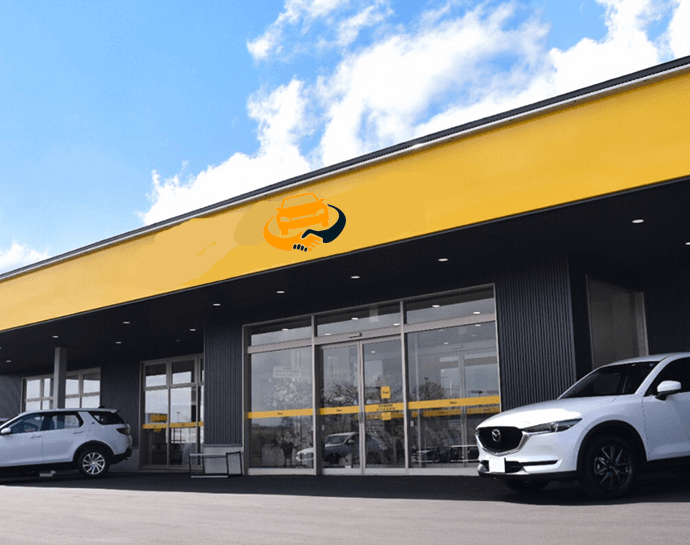
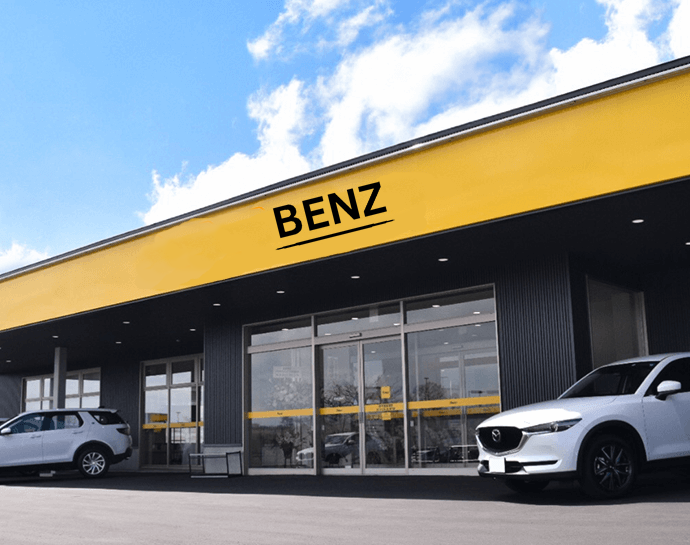
initial setup

Changed region(s): [[0.213, 0.3119, 0.5783, 0.4991]]

diff --git a/resources/views/layouts/myapp.blade.php b/resources/views/layouts/myapp.blade.php
@@ -6,7 +6,7 @@
     <meta name="viewport" content="width=device-width, initial-scale=1.0">
     <meta http-equiv="X-UA-Compatible" content="ie=edge">
     <meta name="csrf-token" content="{{ csrf_token() }}">
-    <title>{{ config('app.name', 'RealRentCar') }}</title>
+    <title>{{ config('app.name', 'Benz Luxury Rental') }}</title>
     {{-- jquery --}}
     <script src="https://code.jquery.com/jquery-3.6.0.min.js"></script>
     {{-- sweet alert --}}
@@ -30,7 +30,7 @@
                 <div class="flex flex-wrap justify-between items-center mx-auto max-w-screen-xl drop-shadow-2xl">
                     {{-- LOGO --}}
                     <a href="{{ route('home') }}" class="flex items-center">
-                        <img loading="lazy" src="/images/logos/LOGOtext.png" class="mr-3 h-12" alt="Flowbite Logo" />
+                        <img loading="lazy" src="/logo_black.png" class="mr-3 h-12" alt="Flowbite Logo" />
                     </a>
 
                     {{-- login & Register buttons --}}
@@ -123,7 +123,7 @@
                 <div class="flex flex-wrap justify-between items-center mx-auto max-w-screen-xl">
                     {{-- LOGO --}}
                     <a href="{{ route('home') }}" class="flex items-center">
-                        <img loading="lazy" src="/images/logos/LOGOtext.png" class="mr-3 h-12" alt="Flowbite Logo" />
+                        <img loading="lazy" src="/logo_black.png" class="mr-3 h-12" alt="Flowbite Logo" />
                     </a>
 
                     {{-- Dropdown button --}}
@@ -326,7 +326,7 @@
                 <div class="md:flex md:justify-between">
                     <div class="mb-12 md:mb-0 flex justify-center ">
                         <a href="" class="flex items-center">
-                            <img loading="lazy" src="/images/logos/LogoTextDark.png" class="mr-3 h-24"
+                            <img loading="lazy" src="/logo.png" class="mr-3 h-24"
                                 alt="Logo" />
                         </a>
                     </div>
@@ -336,25 +336,24 @@
                             <h2 class="mb-6 text-sm font-semibold  uppercase text-white">Resources</h2>
                             <ul class=" text-gray-400">
                                 <li class="mb-4">
-                                    <a href="https://laravel.com/" target='_blank'="hover:underline">Laravel 10.x</a>
+                                    <a href="/cars" target='_blank'="hover:underline">Cars</a>
                                 </li>
                                 <li>
-                                    <a href="https://tailwindcss.com/" target='_blank'
-                                        class="hover:underline">Tailwind
-                                        CSS</a>
+                                    <a href="/location" target='_blank'
+                                        class="hover:underline">Location</a>
                                 </li>
                             </ul>
                         </div>
                         <div>
-                            <h2 class="mb-6 text-sm font-semibold  uppercase text-white">Follow us</h2>
+                            <h2 class="mb-6 text-sm font-semibold  uppercase text-white">Contact us</h2>
                             <ul class="text-gray-400">
                                 <li class="mb-4">
-                                    <a href="https://github.com/Mohamed-Galdi/RealRentCar" class="hover:underline "
-                                        target='_blank'>Github</a>
+                                    <a href="https://wa.me/971505068032" class="hover:underline "
+                                        target='_blank'>+971 0000 0000</a>
                                 </li>
                                 <li>
-                                    <a href="https://www.linkedin.com/in/mohamed-galdi/" class="hover:underline"
-                                        target='_blank'>Linkedin</a>
+                                    <a href="/contact_us" class="hover:underline"
+                                        target='_blank'>Contact</a>
                                 </li>
                             </ul>
                         </div>
@@ -380,38 +379,19 @@
                 <div class="sm:flex sm:items-center sm:justify-between md:ms-0 pb-4  ms-32">
                     <span class="text-sm sm:text-center text-gray-400 md:ms-0 -ms-8">© 2022 <a
                             href="https://www.linkedin.com/in/mohamed-galdi/" target='_blank'
-                            class="hover:underline">Galdi.dev™</a>. All Rights Reserved.
+                            class="hover:underline">Benz Luxury Cars™</a>. All Rights Reserved.
                     </span>
                     <div class="flex mt-4 space-x-6 sm:justify-center sm:mt-0">
-                        <a href="https://github.com/Mohamed-Galdi/RealRentCar" target='_blank'
-                            class="text-gray-500 hover:text-white">
-                            <svg class="w-8 h-8" fill="currentColor" viewBox="0 0 24 24" aria-hidden="true">
-                                <path fill-rule="evenodd"
-                                    d="M12 2C6.477 2 2 6.484 2 12.017c0 4.425 2.865 8.18 6.839 9.504.5.092.682-.217.682-.483 0-.237-.008-.868-.013-1.703-2.782.605-3.369-1.343-3.369-1.343-.454-1.158-1.11-1.466-1.11-1.466-.908-.62.069-.608.069-.608 1.003.07 1.531 1.032 1.531 1.032.892 1.53 2.341 1.088 2.91.832.092-.647.35-1.088.636-1.338-2.22-.253-4.555-1.113-4.555-4.951 0-1.093.39-1.988 1.029-2.688-.103-.253-.446-1.272.098-2.65 0 0 .84-.27 2.75 1.026A9.564 9.564 0 0112 6.844c.85.004 1.705.115 2.504.337 1.909-1.296 2.747-1.027 2.747-1.027.546 1.379.202 2.398.1 2.651.64.7 1.028 1.595 1.028 2.688 0 3.848-2.339 4.695-4.566 4.943.359.309.678.92.678 1.855 0 1.338-.012 2.419-.012 2.747 0 .268.18.58.688.482A10.019 10.019 0 0022 12.017C22 6.484 17.522 2 12 2z"
-                                    clip-rule="evenodd" />
-                            </svg>
-                        </a>
-                        <a href="https://twitter.com/GaldiMohamed" target='_blank'
+                   
+                        <a href="#" target='_blank'
                             class="text-gray-500 hover:text-white">
                             <svg class="w-8 h-8" fill="currentColor" viewBox="0 0 24 24" aria-hidden="true">
                                 <path
                                     d="M8.29 20.251c7.547 0 11.675-6.253 11.675-11.675 0-.178 0-.355-.012-.53A8.348 8.348 0 0022 5.92a8.19 8.19 0 01-2.357.646 4.118 4.118 0 001.804-2.27 8.224 8.224 0 01-2.605.996 4.107 4.107 0 00-6.993 3.743 11.65 11.65 0 01-8.457-4.287 4.106 4.106 0 001.27 5.477A4.072 4.072 0 012.8 9.713v.052a4.105 4.105 0 003.292 4.022 4.095 4.095 0 01-1.853.07 4.108 4.108 0 003.834 2.85A8.233 8.233 0 012 18.407a11.616 11.616 0 006.29 1.84" />
                             </svg>
                         </a>
-                        <a href="https://www.linkedin.com/in/mohamed-galdi/" target='_blank'
-                            class="text-gray-500  hover:text-white">
-                            <svg xmlns="http://www.w3.org/2000/svg" height="2em" viewBox="0 0 448 512">
-                                <!--! Font Awesome Free 6.4.0 by @fontawesome - https://fontawesome.com License - https://fontawesome.com/license (Commercial License) Copyright 2023 Fonticons, Inc. -->
-                                <style>
-                                    svg {
-                                        fill: #ea9800
-                                    }
-                                </style>
-                                <path
-                                    d="M416 32H31.9C14.3 32 0 46.5 0 64.3v383.4C0 465.5 14.3 480 31.9 480H416c17.6 0 32-14.5 32-32.3V64.3c0-17.8-14.4-32.3-32-32.3zM135.4 416H69V202.2h66.5V416zm-33.2-243c-21.3 0-38.5-17.3-38.5-38.5S80.9 96 102.2 96c21.2 0 38.5 17.3 38.5 38.5 0 21.3-17.2 38.5-38.5 38.5zm282.1 243h-66.4V312c0-24.8-.5-56.7-34.5-56.7-34.6 0-39.9 27-39.9 54.9V416h-66.4V202.2h63.7v29.2h.9c8.9-16.8 30.6-34.5 62.9-34.5 67.2 0 79.7 44.3 79.7 101.9V416z" />
-                            </svg>
-                        </a>
-                        <a href="https://www.instagram.com/galldii/" target='_blank'
+                       
+                        <a href="#" target='_blank'
                             class="text-gray-500  hover:text-white">
                             <svg class="w-8 h-8" fill="currentColor" viewBox="0 0 24 24" aria-hidden="true">
                                 <path fill-rule="evenodd"

diff --git a/resources/views/reservation/create.blade.php b/resources/views/reservation/create.blade.php
@@ -14,10 +14,10 @@
                     <p>
                         <span
                             class=" text-3xl font-bold text-pr-400 ms-3 me-1 border border-pr-400 p-2 rounded-md">{{ $car->price_per_day }}
-                            $</span>
+                            <span style='font-size:10px'>AED</span></span>
                         <span
                             class="text-lg font-medium text-red-500 line-through">{{ intval(($car->price_per_day * 100) / (100 - $car->reduce)) }}
-                            $
+                            <span style='font-size:10px'>AED</span>
                         </span>
                     </p>
                 </div>
@@ -118,7 +118,7 @@
                 <div class=" w-full   mt-8 ms-8">
                     <p id="total-price" class="font-car text-gray-600 text-lg ms-2">Estimated Price: <span
                             class="mx-2 font-car text-md font-medium text-gray-700 border border-pr-400 p-2 rounded-md "> --
-                            $</span>
+                            <span style='font-size:10px'>AED</span></span>
                     </p>
                 </div>
                 <div id="mobile_submit_button" class="mt-12 w-full md:hidden  ">
@@ -170,14 +170,14 @@
                             var pricePerDay = {{ $car->price_per_day }};
                             var totalPrice = duration * pricePerDay;
                             $('#duration span').text(duration + ' days');
-                            $('#total-price span').text(totalPrice + ' $');
+                            $('#total-price span').text(totalPrice + ' AED');
                         } else {
                             $('#duration span').text('-- days');
-                            $('#total-price span').text('-- $');
+                            $('#total-price span').text('-- AED');
                         }
                     } else {
                         $('#duration span').text('-- days');
-                        $('#total-price span').text('-- $');
+                        $('#total-price span').text('-- AED');
                     }
                 });
             }

diff --git a/resources/views/thankyou.blade.php b/resources/views/thankyou.blade.php
@@ -7,14 +7,14 @@
     <meta http-equiv="X-UA-Compatible" content="ie=edge">
     <title>Thank you</title>
     @vite('resources/css/app.css')
-    <link rel="icon" type="image/x-icon" href="/images/logos/LOGOtext.png">
+    <link rel="icon" type="image/x-icon" href="logo_black.png">
 </head>
 
 <body class="mx-auto max-w-screen-xl bg-gray-200">
     <div class="h-screen bg-gray-200 flex justify-center items-center ">
         <div class="bg-white md:w-3/5 h-4/5 rounded-lg mx-4 shadow-xl flex flex-col justify-start items-center gap-8">
             <div class="w-32 mt-10">
-                <img loading="lazy"  src="/images/logos/LOGO.png" alt="">
+                <img loading="lazy"  src="logo_black.png" alt="">
             </div>
             <div class="">
                 <h1 class="font-car font-bold text-gray-900 text-6xl text-center">Thank You ❤</h1>

diff --git a/resources/views/cars/cars.blade.php b/resources/views/cars/cars.blade.php
@@ -39,9 +39,9 @@
                     </div>
                     <div class="mt-2 mb-5 flex items-center justify-between">
                         <p>
-                            <span class="text-3xl font-bold text-slate-900">{{ $car->price_per_day }}</span>
+                            <span class="text-3xl font-bold text-slate-900">{{ $car->price_per_day }} <span style='font-size:10px'>AED</span></span>
                             <span
-                                class="text-sm text-slate-900 line-through">{{ intval(($car->price_per_day * 100) / (100 - $car->reduce)) }}
+                                class="text-sm text-slate-900 line-through">{{ intval(($car->price_per_day * 100) / (100 - $car->reduce)) }} <span style='font-size:10px'>AED</span>
                             </span>
                         </p>
 

diff --git a/resources/views/cars/searchedCars.blade.php b/resources/views/cars/searchedCars.blade.php
@@ -44,9 +44,9 @@
                     </div>
                     <div class="flex items-center justify-between mt-2 mb-5">
                         <p>
-                            <span class="text-3xl font-bold text-slate-900">{{ $car->price_per_day }}</span>
+                            <span class="text-3xl font-bold text-slate-900">{{ $car->price_per_day }} <span style='font-size:10px'>AED</span></span>
                             <span
-                                class="text-sm line-through text-slate-900">{{ intval(($car->price_per_day * 100) / (100 - $car->reduce)) }}
+                                class="text-sm line-through text-slate-900">{{ intval(($car->price_per_day * 100) / (100 - $car->reduce)) }} <span style='font-size:10px'>AED</span>
                             </span>
                         </p>
 

diff --git a/resources/views/Terms_Conditions.blade.php b/resources/views/Terms_Conditions.blade.php
@@ -1,7 +1,7 @@
 @extends('layouts.myapp')
 @section('content')
     <div class="flex flex-col justify-center items-center gap-12 my-8 mx-auto max-w-screen-xl ">
-        <img src="/images/logos/LOGO.png" alt=" logo" class="w-[150px]">
+        <img src="/logo_black.png" alt=" logo" class="w-[150px]">
         <h2 class="text-5xl font-medium text-center"> Terms & Conditions
         </h2>
         <div class=" text-start flex flex-col  gap-8 md:w-2/3 w-4/5">
@@ -60,7 +60,7 @@
                 Contact Us:</h3>
             <p class=" ms-4">
                 If you have any questions or concerns about our Privacy Policy or Terms & Conditions, please contact us at:
-                realrentcar@email.com
+                benzluxurycars@gmail.com
 
             </p>
         </div>

diff --git a/resources/views/invoice.blade.php b/resources/views/invoice.blade.php
@@ -131,9 +131,9 @@
             <div>
                 <h2 style="color: #ff9b00">Real Rent Car</h2>
                 <ul>
-                    <li>DR ANABDOUR AMMELEN </li>
-                    <li>TIZNIT</li>
-                    <li>+212637998660 | contact.galdi@gmail.com</li>
+                    <li>Khasan Xxxxx Xxxxx </li>
+                    <li>Benz Luxury Cars</li>
+                    <li>+971 0000 00000| Benzluxurycars@gmail.com</li>
                 </ul>
                 <h2>Client</h2>
                 <ul>

diff --git a/resources/views/Privacy_Policy.blade.php b/resources/views/Privacy_Policy.blade.php
@@ -1,7 +1,7 @@
 @extends('layouts.myapp')
 @section('content')
     <div class="flex flex-col justify-center items-center gap-12 my-8 mx-auto max-w-screen-xl ">
-        <img src="/images/logos/LOGO.png" alt=" logo" class="w-[150px]">
+        <img src="/logo_black.png" alt=" logo" class="w-[150px]">
         <h2 class="text-5xl font-medium">Privacy Policy</h2>
         <div class=" text-start flex flex-col  gap-8 w-2/3">
 

diff --git a/config/database.php b/config/database.php
@@ -57,7 +57,7 @@ return [
             'prefix' => '',
             'prefix_indexes' => true,
             'strict' => true,
-            'engine' => null,
+            'engine' => 'InnoDB ROW_FORMAT=DYNAMIC',
             'options' => extension_loaded('pdo_mysql') ? array_filter([
                 PDO::MYSQL_ATTR_SSL_CA => env('MYSQL_ATTR_SSL_CA'),
             ]) : [],

diff --git a/config/app.php b/config/app.php
@@ -16,7 +16,7 @@ return [
     |
     */
 
-    'name' => env('APP_NAME', 'RealRentCar'),
+    'name' => env('APP_NAME', 'Benz Luxury Cars'),
 
     /*
     |--------------------------------------------------------------------------
